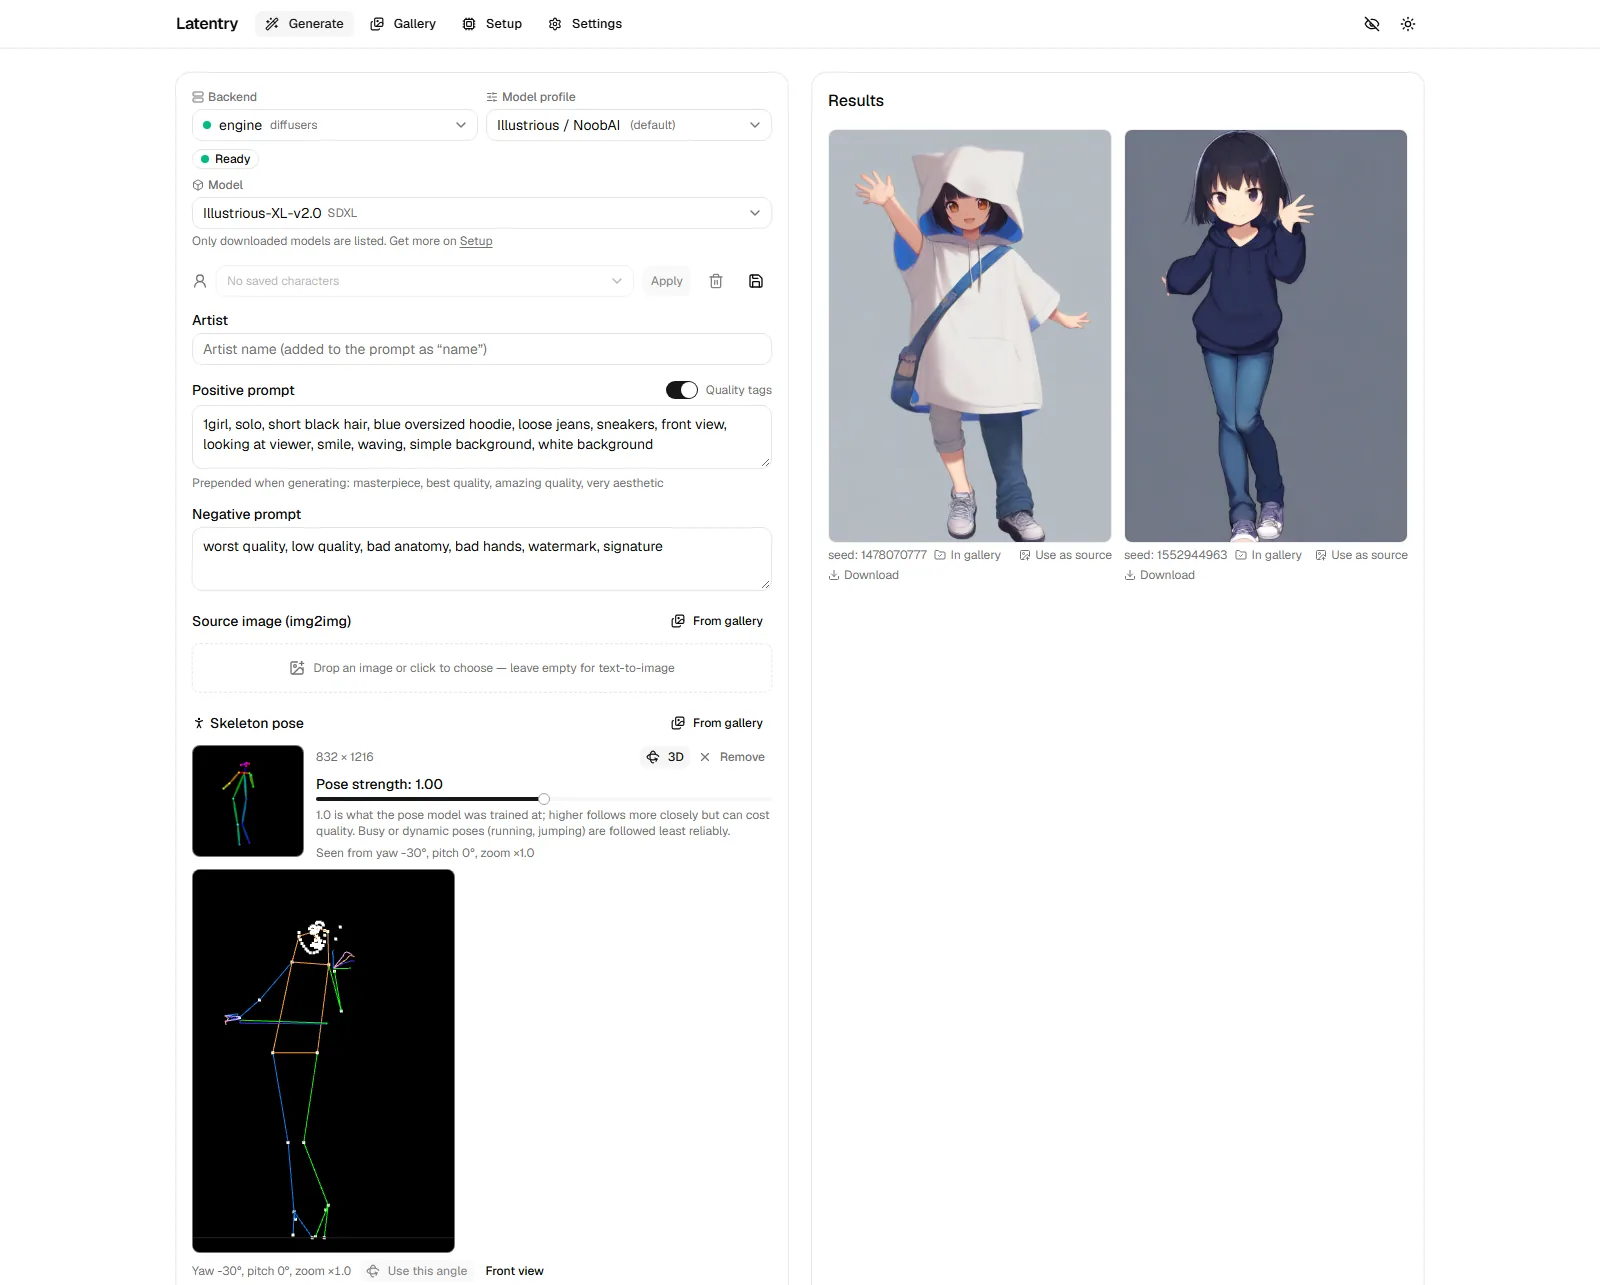
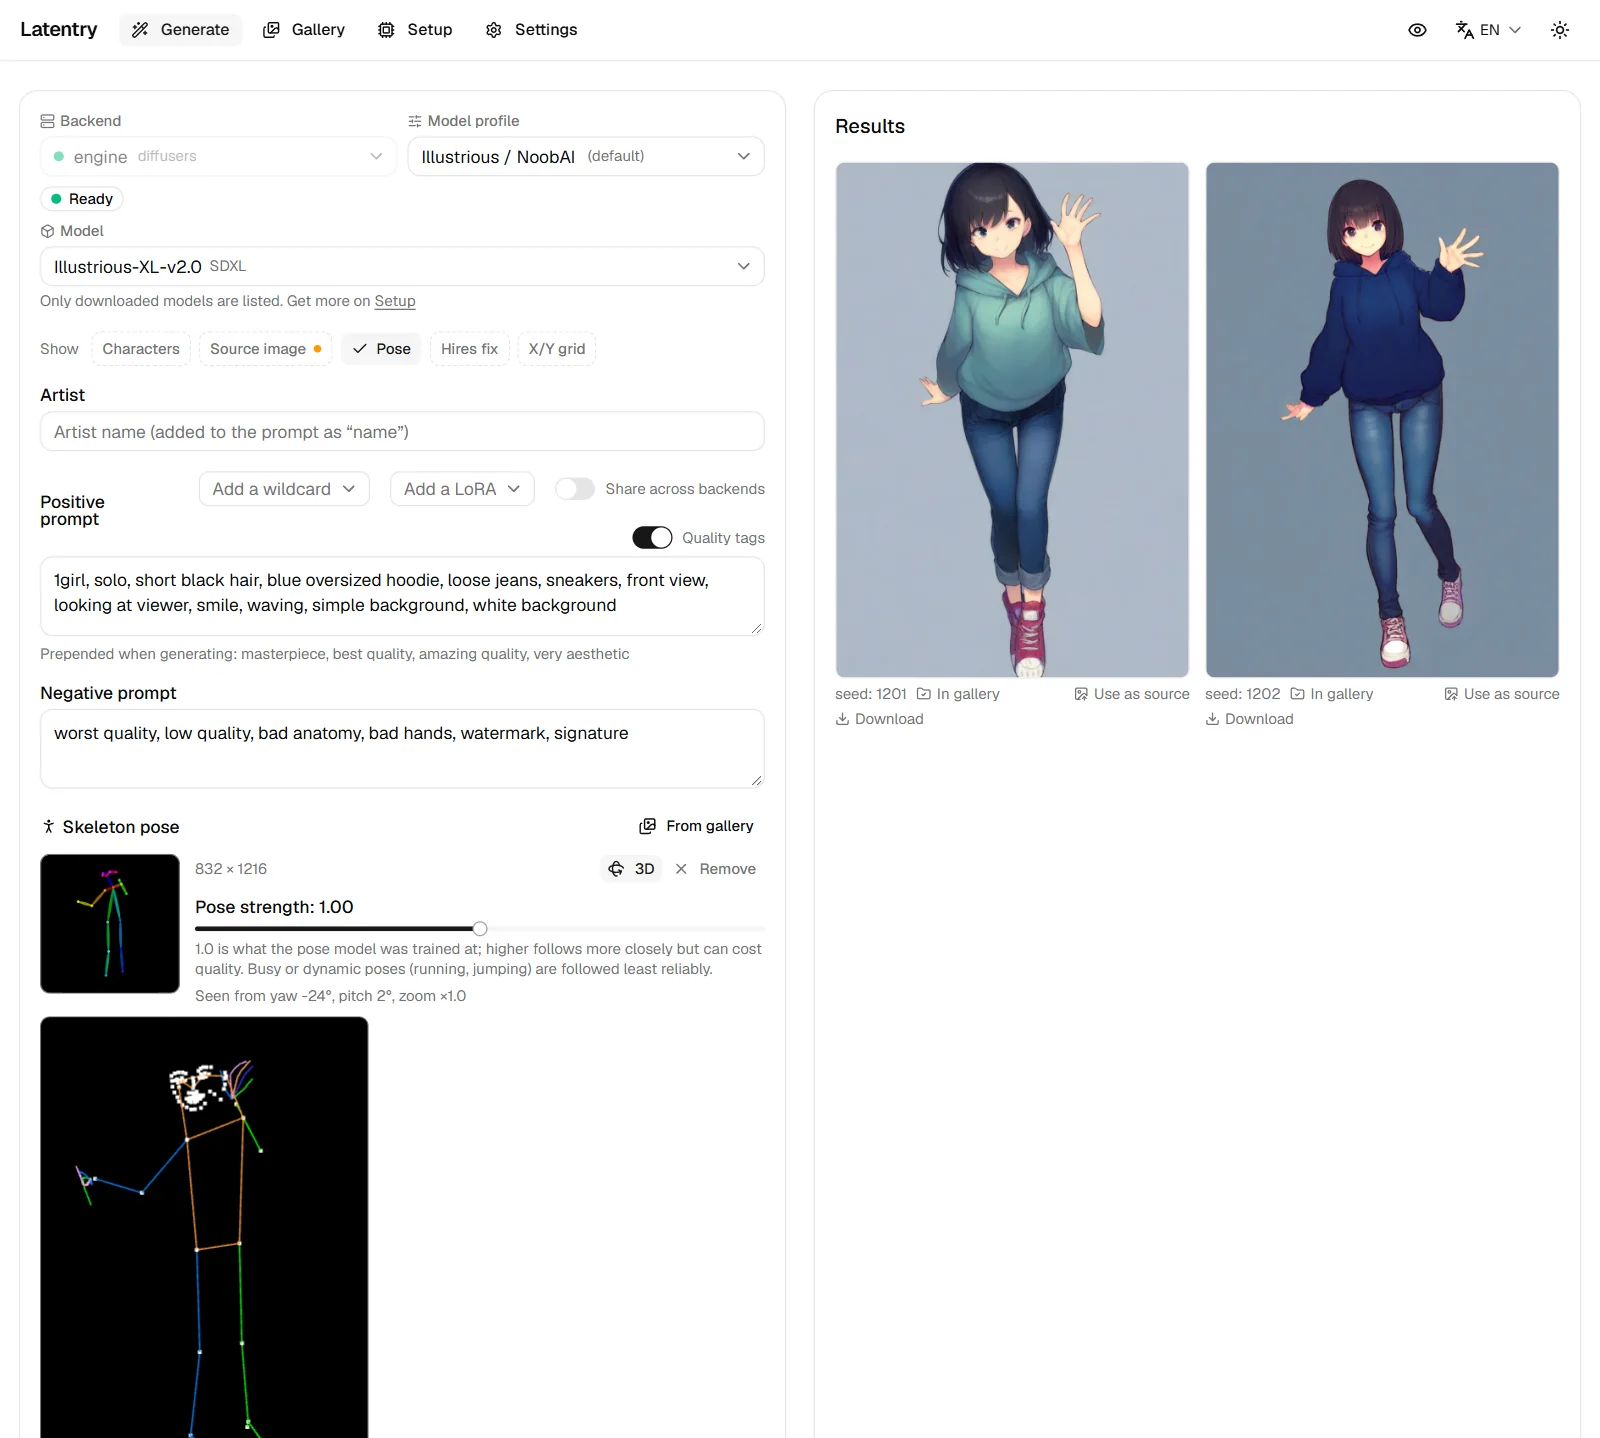
Retake the Settings and generate page screenshots for the section list and the Show row (#143)
Both are now taken by npm run docs:screenshots: manual-settings on the
mocks, screenshot-generate on the engine (a pose turned in the 3D view
with the source hidden, and two pictures drawn from it). The 3D view's
steps are shared by both engine shots and start from the Illustrious
profile; a reused gallery brings only its own pictures. The mock
ComfyUI's address shows ComfyUI's default port.

diff --git a/e2e/screenshots/engine.shots.ts b/e2e/screenshots/engine.shots.ts
@@ -2,8 +2,8 @@
 // docs:screenshots` with DOCS_ENGINE_MODELS set (see
 // scripts/docs-screenshots.mjs). The engine first draws a fresh gallery into
 // the temp folder from the prompts below, with fixed seeds; then the shots of
-// the gallery, the viewer, the 3D view, Setup and (with DOCS_COMFY_URL) a
-// ComfyUI workflow are taken from it.
+// the gallery, the viewer, the 3D view, the generate page, Setup and (with
+// DOCS_COMFY_URL) a ComfyUI workflow are taken from it.
 
 import { cpSync, existsSync, readdirSync } from 'node:fs'
 import path from 'node:path'
@@ -36,9 +36,13 @@ const PICTURES: [string, string, number][] = [
 test('the engine draws the gallery', async ({ page }) => {
   test.setTimeout(30 * 60_000)
   // DOCS_ENGINE_GALLERY: the pictures an earlier run drew (its temp folder's
-  // out/, kept with E2E_KEEP=1); only the ones it lacks are drawn.
+  // out/, kept with E2E_KEEP=1); only the ones it lacks are drawn. Of that
+  // folder only the gallery's own are taken, not what a shot drew after.
   const earlier = process.env.DOCS_ENGINE_GALLERY
-  if (earlier && existsSync(earlier)) cpSync(earlier, path.join(root, 'out'), { recursive: true })
+  const ours = (name: string) => PICTURES.some(([, , seed]) => name.includes(`_engine_${seed}_`))
+  if (earlier && existsSync(earlier)) {
+    cpSync(earlier, path.join(root, 'out'), { recursive: true, filter: (from) => from === earlier || ours(path.basename(from)) })
+  }
   const drawn = readdirSync(path.join(root, 'out')).join('\n')
   const missing = PICTURES.filter(([, , seed]) => !drawn.includes(`_engine_${seed}_`))
   await openGenerate(page, 'engine')
@@ -94,11 +98,23 @@ take('screenshot-viewer')('viewer, with WD14 tags', async ({ page }) => {
   await shot(page, 'manual-viewer')
 })
 
-take('manual-3d')('3D view, from a full-body picture', async ({ page }) => {
-  // With the gallery reused, the engine may still be loading its model.
-  test.setTimeout(10 * 60_000)
-  // Tall enough that nothing scrolls under the sticky header.
+/**
+ * From the full-body picture in the gallery to its pose in the 3D view, a
+ * hand raised and the camera turned a little: on the engine, in a window tall
+ * enough that nothing scrolls under the sticky header.
+ */
+async function turnPose(page: Page) {
   await page.setViewportSize({ width: 1280, height: 2400 })
+  // The model's profile, set before the skeleton is drawn for its size. (A
+  // gallery reused from an earlier run loads the model without the form.)
+  await openGenerate(page, 'engine')
+  const profile = page.getByRole('main').getByRole('combobox').nth(1)
+  if (!(await profile.textContent())?.includes('Illustrious')) {
+    await profile.click()
+    await page.getByRole('option', { name: /^Illustrious \/ NoobAI/ }).click()
+    // The form is stored a moment after a change; leaving sooner loses it.
+    await expect.poll(() => page.evaluate(() => localStorage.getItem('latentry:form:engine') ?? '')).toContain('"profile":"illustrious"')
+  }
   await openGallery(page)
   await card(page, /1girl, solo, full_body, standing, waving/).click()
   const usePose = page.getByRole('button', { name: 'Use as pose reference' })
@@ -153,7 +169,44 @@ take('manual-3d')('3D view, from a full-body picture', async ({ page }) => {
   await page.mouse.up()
   await expect(page.getByText(/^Yaw -?[1-9]\d*°/)).toBeVisible()
   await expect(page.getByRole('button', { name: 'Use this pose' })).toBeEnabled()
+}
+
+take('manual-3d')('3D view, from a full-body picture', async ({ page }) => {
+  // With the gallery reused, the engine may still be loading its model.
+  test.setTimeout(10 * 60_000)
+  await turnPose(page)
   await shotBetween(page, 'manual-3d', page.getByRole('img', { name: 'Skeleton pose' }), page.getByText('Joints moved: 1'), page.locator('[data-slot="card"]').first(), 4)
+})
+
+take('screenshot-generate')('the generate page: a pose turned in the 3D view, and two pictures drawn from it', async ({ page }) => {
+  test.setTimeout(15 * 60_000)
+  await turnPose(page)
+  await page.getByRole('button', { name: 'Use this pose' }).click()
+  await expect(page.getByRole('button', { name: 'Use this pose' })).toBeDisabled({ timeout: 120_000 })
+
+  // The skeleton alone: the reference stays in its hidden block, not sent, and
+  // the parts this run does not use are out of the way.
+  const shows = page.getByRole('group', { name: 'Show' })
+  for (const name of ['Characters', 'Source image', 'Hires fix', 'X/Y grid']) await shows.getByRole('button', { name: new RegExp(`^${name}`) }).click()
+  await page.locator('#prompt').fill(
+    '1girl, solo, short black hair, blue oversized hoodie, loose jeans, sneakers, front view, looking at viewer, smile, waving, simple background, white background'
+  )
+  await page.getByRole('textbox', { name: 'Seed (-1: random)' }).fill('1201')
+  const count = page.getByRole('slider', { name: /^Image count/ })
+  await count.focus()
+  await count.press('ArrowRight')
+  await expect(count).toHaveAttribute('aria-valuenow', '2')
+  await page.getByRole('button', { name: 'Generate', exact: true }).click()
+  await expect(page.locator('img[alt^="Generated image, seed"]')).toHaveCount(2, { timeout: 5 * 60_000 })
+  await expect(page.getByRole('button', { name: 'Generate', exact: true })).toBeEnabled()
+  // The profile picker is greyed out until the run has quite ended. (The
+  // backend picker stays grey: the engine is the only backend here.)
+  await expect(page.getByRole('main').getByRole('combobox').nth(1)).toBeEnabled({ timeout: 60_000 })
+
+  await page.setViewportSize({ width: 1280, height: 1150 })
+  await page.evaluate(() => window.scrollTo(0, 0))
+  await page.mouse.move(1270, 1140)
+  await shot(page, 'screenshot-generate')
 })
 
 take('manual-setup')('Setup with the engine running', async ({ page }) => {

diff --git a/e2e/screenshots/docs.shots.ts b/e2e/screenshots/docs.shots.ts
@@ -191,6 +191,13 @@ take('manual-secret-results')('secret mode on Generate', async ({ page }) => {
   await shotBetween(page, 'manual-secret-results', page.getByText('Pictures blurred in secret mode.'), page.getByRole('link', { name: 'Download' }), page.locator('[data-slot="card"]').nth(1))
 })
 
+take('manual-settings')('Settings, its list of sections and Backends', async ({ page }) => {
+  await generic(page)
+  await page.goto('/settings#backends')
+  await expect(page.locator('[data-slot="card"]').filter({ has: page.getByText('Backends', { exact: true }) })).toBeVisible()
+  await shot(page, 'manual-settings')
+})
+
 take('manual-pairing')('pairing card', async ({ page }) => {
   await generic(page)
   await page.goto('/settings#devices')

diff --git a/e2e/screenshots/shared.ts b/e2e/screenshots/shared.ts
@@ -59,7 +59,10 @@ export async function generic(page: Page) {
     for (const folder of [...folders].sort((a, b) => b.length - a.length)) {
       for (const form of [JSON.stringify(folder).slice(1, -1), folder.replaceAll('\\', '/')]) body = body.split(form).join('C:\\\\latentry')
     }
-    body = body.replace(/(127\.0\.0\.1|localhost):\d+/g, 'localhost:7860')
+    // The mock ComfyUI at ComfyUI's own default port, the rest at A1111's.
+    body = body
+      .replace(new RegExp(`(127\\.0\\.0\\.1|localhost):${process.env.E2E_COMFY_PORT}\\b`, 'g'), 'localhost:8188')
+      .replace(/(127\.0\.0\.1|localhost):(?!8188\b)\d+/g, 'localhost:7860')
     return route.fulfill({ response, body }).catch(() => {})
   })
 }

diff --git a/README.md b/README.md
@@ -58,7 +58,7 @@ made, then sends those settings back to the form to make it again.
 
 ### Screenshots
 
-![The generate page: the engine with Illustrious XL, the prompt, a reference's pose turned 30 degrees in the 3D view, and the two pictures generated from it](docs/assets/screenshot-generate.webp)
+![The generate page: the engine with Illustrious XL, the prompt, a reference's pose with a hand raised and turned in the 3D view, and the two pictures generated from it](docs/assets/screenshot-generate.webp)
 
 ![The gallery: every saved picture, newest first, with search and filters](docs/assets/screenshot-gallery.webp)
 

diff --git a/docs/index.md b/docs/index.md
@@ -11,7 +11,7 @@ already run, or both. Your prompts, pictures and settings stay on your
 machine. Every picture is saved with how it was made, and the gallery finds
 it again by what it shows or how it was made.
 
-![The generate page: a reference's pose turned 30 degrees in the 3D view, and the two pictures generated from it](assets/screenshot-generate.webp)
+![The generate page: a reference's pose with a hand raised and turned in the 3D view, and the two pictures generated from it](assets/screenshot-generate.webp)
 
 ## What it does
 

diff --git a/docs/guide/settings.md b/docs/guide/settings.md
@@ -1,6 +1,6 @@
 # Settings
 
-![The Settings page: backends, WD14 tagging and gallery folders](../assets/manual-settings.webp)
+![The Settings page: the list of sections on the left, with Backends open](../assets/manual-settings.webp)
 
 Everything here is saved to `latentry.settings.json` on the server and
 applies at once, without a restart. What you leave untouched keeps coming

diff --git a/docs/guide/generate.md b/docs/guide/generate.md
@@ -1,6 +1,6 @@
 # Generate
 
-![The generate page](../assets/screenshot-generate.webp)
+![The generate page: the Show row, a skeleton turned in the 3D view, and the two pictures drawn from it](../assets/screenshot-generate.webp)
 
 The form on the left, the results on the right. Each backend keeps its own
 form, so switching backends and back keeps what you typed.
